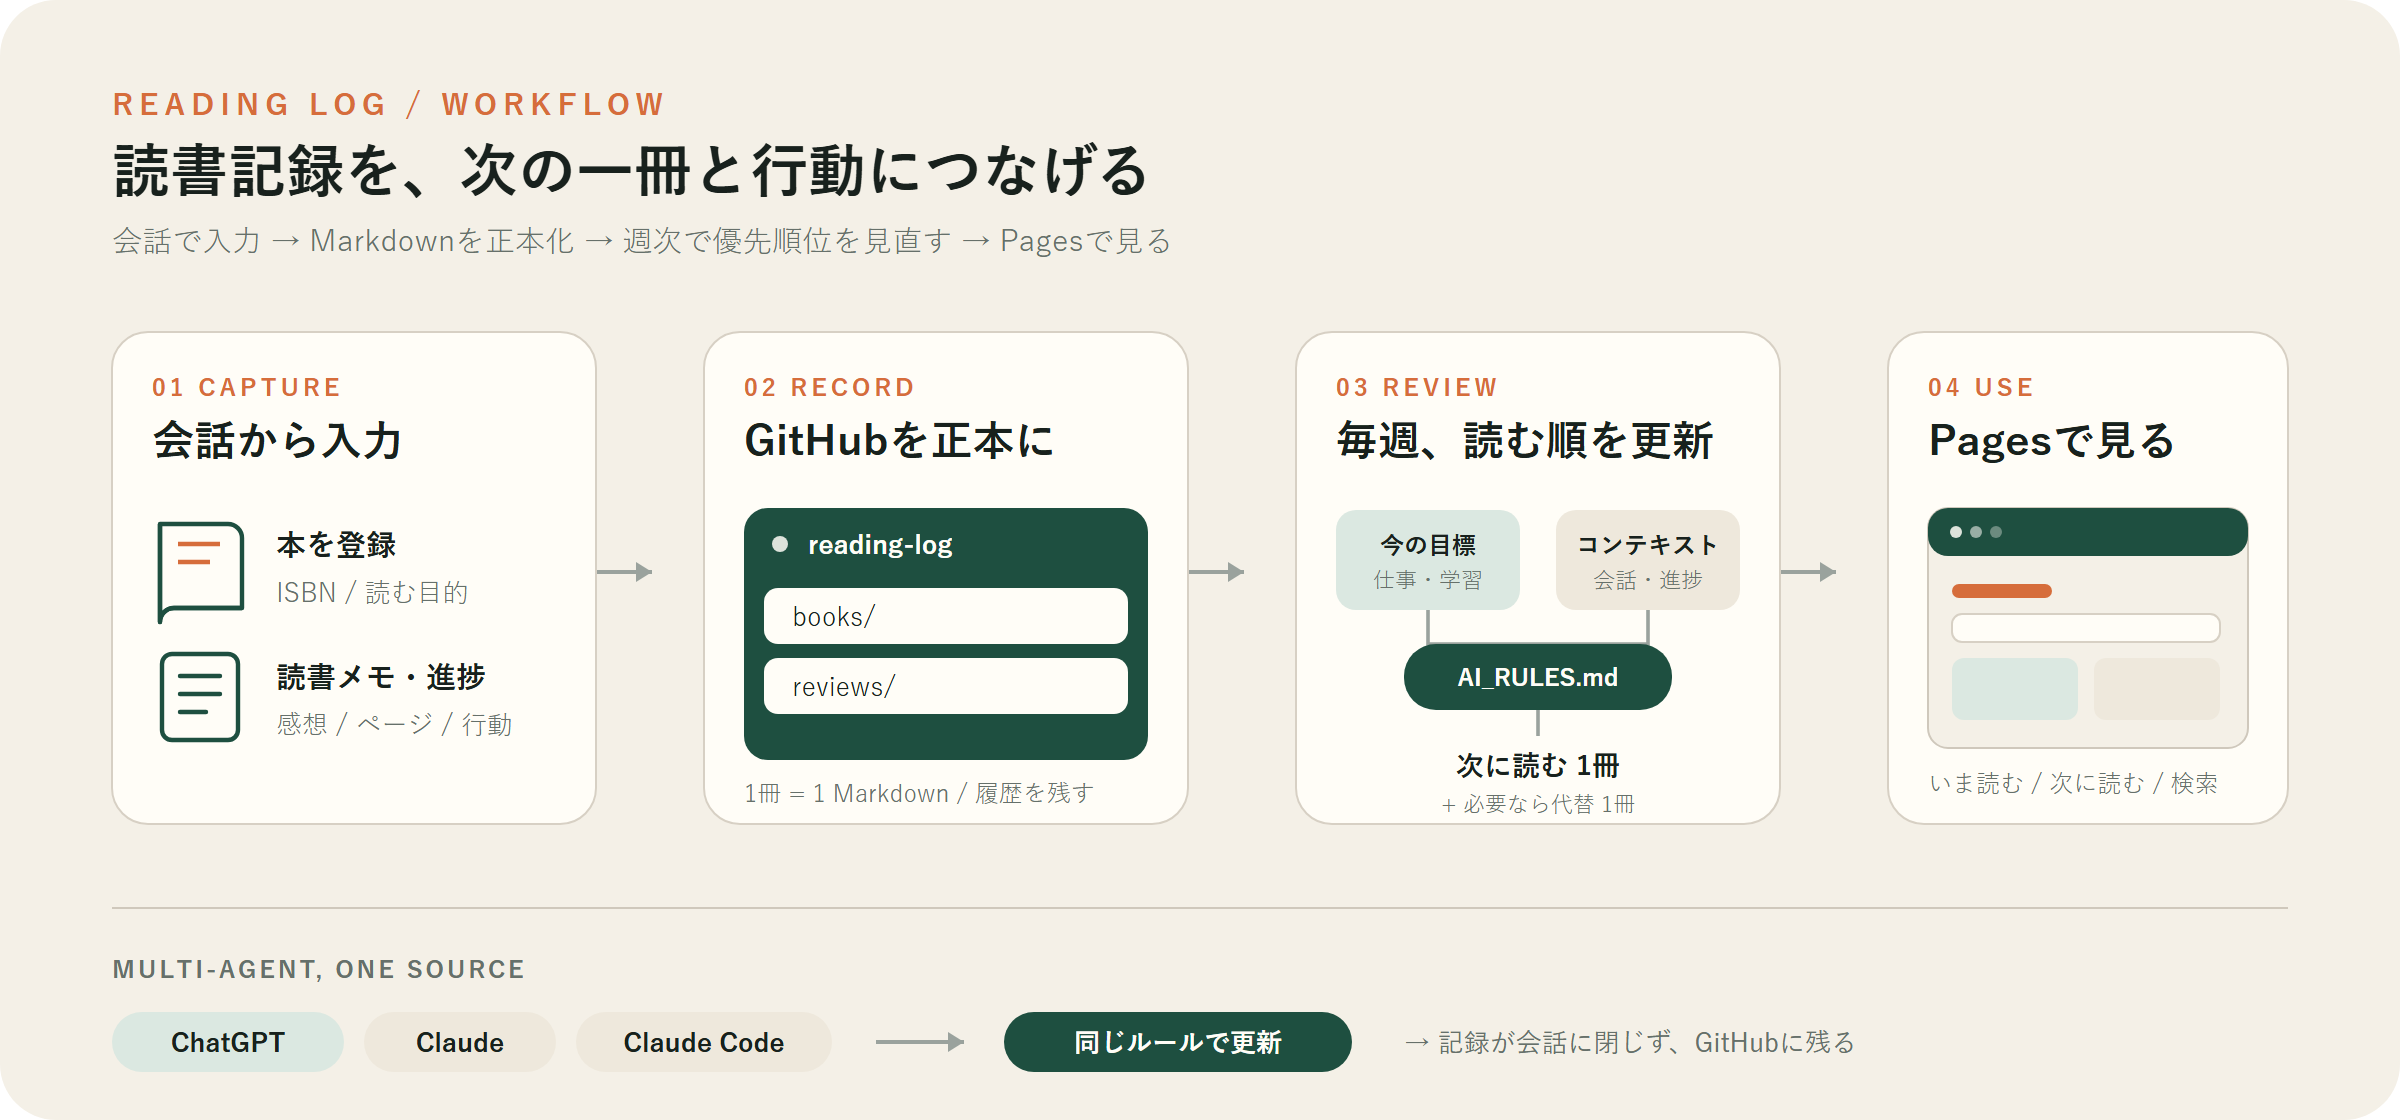
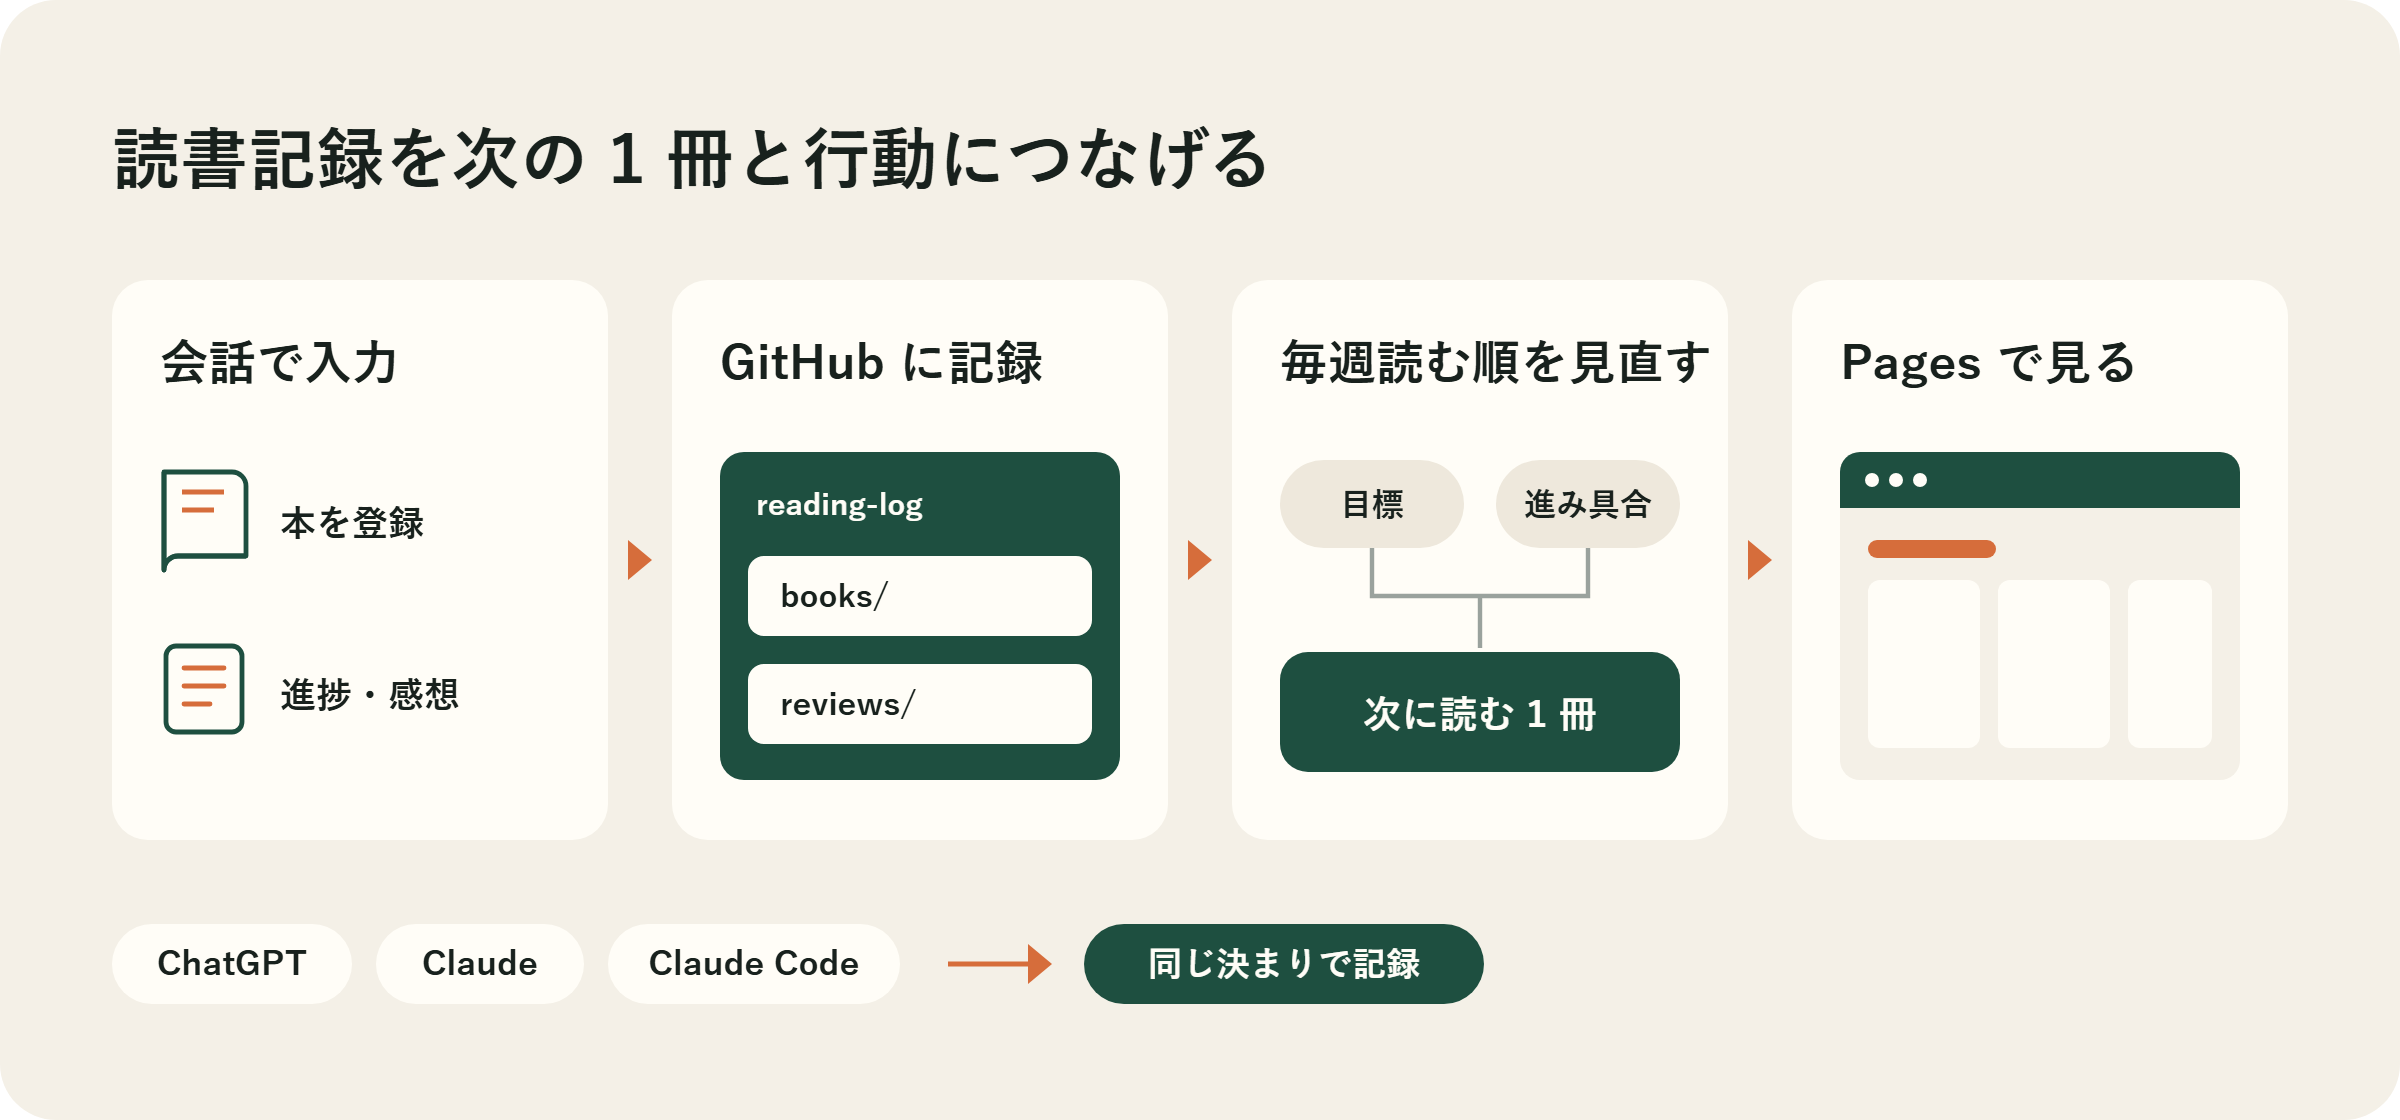
README を読みやすくし、ChatGPT の指示文と週次レビューの定期タスクの文を使えるようにした
- 読点と太字を減らした（yomiyasu の lint の指摘 3 件 → 0 件）
- 始め方の 4 から、ChatGPT のプロジェクトに貼る指示を開けるようにした。指示文はコピーのボタンが付く枠に入れた
- 「週次レビューを自動で回す」の節を足し、ChatGPT の定期タスクに登録する文を載せた
- 仕組みの図から英語の小見出し・補足の文・意味のない色分けを外し、PNG を作り直した

diff --git a/README.md b/README.md
@@ -2,20 +2,20 @@
 
 A template for a reading log that you update by talking to ChatGPT. Each book is one Markdown file in your GitHub repository, GitHub Pages shows your bookshelf, and the AI picks your next book every week based on your goals. Click "Use this template" to start. The documentation below is in Japanese.
 
-ChatGPT に話しかけるだけで更新できる読書記録のひな形です。本は 1 冊 1 ファイルで GitHub に残り、GitHub Pages で本棚として見られ、毎週 AI が「次に読む 1 冊」を選びます。
+ChatGPT に話しかけるだけで更新できる読書記録のひな形です。本は 1 冊 1 ファイルで GitHub に残り、GitHub Pages で本棚として見られます。毎週 AI が「次に読む 1 冊」を選びます。
 
 ![仕組みの図：会話で入力し、GitHub に記録し、毎週読む順を見直し、Pages で見る](assets/images/reading-log-overview.svg)
 
-**実例：[作者の本棚](https://n-yoshida-dev.github.io/reading-log/)**（このひな形の元になった読書記録）
+実例：[作者の本棚](https://n-yoshida-dev.github.io/reading-log/)（このひな形の元になった読書記録）
 
 ## なぜ作ったか
 
-読書記録を「残す」だけで終わらせず、**次に読む本と、読後にやることまでつなげる**ためです。記録が ChatGPT の会話の中に閉じると、あとから探せず、ほかの AI からも使えません。そこで GitHub を正本にし、どの AI も同じ決まり（`AI_RULES.md`）で読み書きするようにしました。
+読書記録を残すだけで終わらせず、次に読む本と読後にやることまでつなげるためです。記録が ChatGPT の会話の中にしかないと、あとから探せず、ほかの AI からも使えません。そこで記録の置き場を GitHub にし、どの AI も同じ決まり（`AI_RULES.md`）で読み書きするようにしました。
 
 ## どんな人に向くか
 
 - 本を買っても積んでしまい、どれから読むか迷う人
-- 読んだ感想を書くのが面倒で、記録が続かない人
+- 読んだ感想を書くのが面倒で記録が続かない人
 - ChatGPT と GitHub のアカウントを持っている人（ChatGPT から GitHub に書き込める設定が要る）
 
 ## できること
@@ -23,26 +23,40 @@ ChatGPT に話しかけるだけで更新できる読書記録のひな形です
 | 機能 | 中身 |
 | --- | --- |
 | 話して記録 | 「今 85 ページ。ここが刺さった」と ChatGPT に話すと、その本のファイルに日付つきで追記される |
-| 写真で登録 | 表紙と裏表紙のバーコードの写真から、タイトル・著者・ISBN を登録する |
-| 次の 1 冊 | 毎週、あなたの目標・進み具合・残っている行動から、次に読む 1 冊を選び、100 点満点の参考点を付ける |
+| 写真で登録 | 表紙と裏表紙のバーコードの写真からタイトル・著者・ISBN を登録する |
+| 次の 1 冊 | 毎週あなたの目標・進み具合・残っている行動から次に読む 1 冊を選び、100 点満点の参考点を付ける |
 | 本棚の画面 | 「読書中」「次に読む」「すべての本」。検索・カテゴリの絞り込み・並べ替え |
 | 記録フォーム | 画面の「記録する」で項目を埋めると、ChatGPT に貼る文章ができる（話すのが難しい場面用） |
 | ほかの AI | Claude Code は `CLAUDE.md`、Codex などは `AGENTS.md` から同じ決まりを読む |
 
 ## 始め方（15 分ほど）
 
-1. このページ右上の **Use this template → Create a new repository** で、自分のリポジトリを作る。公開範囲は **Public**（GitHub Pages を無料で使うため。記録は誰でも読めるようになる）
-2. 作ったリポジトリの **Settings → Pages** で、Source を **Deploy from a branch**、Branch を **main / (root)** にして保存する。数分で `https://<ユーザー名>.github.io/<リポジトリ名>/` に空の本棚が出る
-3. `_data/categories.yml` のカテゴリを、自分の読む本に合わせて書き換える（GitHub の画面の鉛筆マークで直せる）
-4. ChatGPT で読書記録用の**プロジェクト**を作り、`CHATGPT_PROJECT_INSTRUCTIONS.md` の「---」から後ろを、プロジェクトの指示に貼る。`<GitHubユーザー名>/<リポジトリ名>` と「私の今の目標」を自分の物に書き換える
-5. ChatGPT の **設定 → プラグイン** で **GitHub** を入れ、GitHub 側の許可の画面で、このリポジトリへのアクセスを許可する（2026-11 時点の画面の名前。ChatGPT の更新で変わることがある）
-6. プロジェクトの中で、表紙とバーコードの写真を添えて「この本を登録して。設計を学びたくて買った」と話す。本のファイルができ、数分後に本棚に出れば完了
+1. このページ右上の「Use this template」→「Create a new repository」で自分のリポジトリを作る。公開範囲は「Public」にする。GitHub Pages を無料で使うためで、記録は誰でも読めるようになる
+2. 作ったリポジトリの「Settings」→「Pages」で Source を「Deploy from a branch」、Branch を「main」と「/ (root)」にして保存する。数分で `https://<ユーザー名>.github.io/<リポジトリ名>/` に空の本棚が出る
+3. `_data/categories.yml` のカテゴリを自分の読む本に合わせて書き換える。GitHub の画面の鉛筆マークで直せる
+4. ChatGPT で読書記録用のプロジェクトを作る。[ChatGPT のプロジェクトに貼る指示](CHATGPT_PROJECT_INSTRUCTIONS.md)を開き、枠の中の文をコピーしてプロジェクトの指示に貼る。`<GitHubユーザー名>/<リポジトリ名>` と「私の今の目標」は自分の物に書き換える
+5. ChatGPT の「設定」→「プラグイン」で「GitHub」を入れ、GitHub 側の許可の画面でこのリポジトリへのアクセスを許可する。画面の名前は 2026-11 時点のもので、ChatGPT の更新で変わることがある
+6. プロジェクトの中で表紙とバーコードの写真を添えて「この本を登録して。設計を学びたくて買った」と話す。本のファイルができ、数分後に本棚に出れば完了
+
+## 週次レビューを自動で回す
+
+ChatGPT の定期タスク（決めた曜日と時刻に ChatGPT が自動で動く機能）に、次の文を登録します。プロジェクトの中の会話でこの文を送ると、毎週のタスクとして登録できます。曜日と時刻とリポジトリ名は自分の物に書き換えてください。
+
+```text
+毎週日曜の朝 8 時に、読書記録の週次レビューをして。
+リポジトリ <GitHubユーザー名>/<リポジトリ名> の AI_RULES.md を全文読み、8・9・12 に従う。
+books/ と inbox/ と reviews/latest.md を読み、templates/weekly-review.md の形で reviews/YYYY-Www.md に今週のレビューを作り、reviews/latest.md を同じ中身にする。
+各本の優先度の点数と reading_order を直し、GitHub に反映する。
+終わったら、次に読む 1 冊と変えたファイルを短く教えて。
+```
+
+定期タスクを使わないときは、週に 1 回「今週の読書レビューをして」と頼めば同じことができます。
 
 ## 毎日の使い方（作者の運用）
 
-- 本を読んだら、スマホの ChatGPT アプリでプロジェクトを開き、**音声で**話す。「今ここまで読んで、こう思った」「ここは仕事で試したい」くらいの話し言葉で十分。ChatGPT が整えて、その本のファイルに書く
-- 週次レビューは、ChatGPT の定期タスクで毎週自動で回している（定期タスクを使わないなら、週に 1 回「今週の読書レビューをして」と頼めばよい）。`reviews/` にレビューができ、次に読む 1 冊が本棚の「次に読む」の先頭に来る
-- 何冊もまとめて登録する・ファイルの形を変えるときは、パソコンの Claude Code で開いて頼む
+- 本を読んだらスマホの ChatGPT アプリでプロジェクトを開き、音声で話す。「今ここまで読んで、こう思った」「ここは仕事で試したい」くらいの話し言葉で十分。ChatGPT が整えて、その本のファイルに書く
+- 週次レビューは上の定期タスクで毎週自動で回している。`reviews/` にレビューができ、次に読む 1 冊が本棚の「次に読む」の先頭に来る
+- 何冊もまとめて登録するときやファイルの形を変えるときは、パソコンの Claude Code で開いて頼む
 
 ## ファイルの構成
 
@@ -59,10 +73,10 @@ CLAUDE.md / AGENTS.md            Claude Code・Codex などの入口
 
 ## 気をつけること
 
-- **リポジトリと本棚は誰でも読めます。** 家族・勤務先・お金・健康の話は記録に書かないでください。目標など人に見せたくない事は、ChatGPT のプロジェクトの指示（非公開）に書きます。`AI_RULES.md` の 10 で、AI にも同じことを守らせています
+- **リポジトリと本棚は誰でも読めます。** 家族・勤務先・お金・健康の話は記録に書かないでください。目標など人に見せたくないことは、ChatGPT のプロジェクトの指示（非公開）に書きます。`AI_RULES.md` の 10 で AI にも同じことを守らせています
 - 本の文章の長い引用と、市販の本の表紙の写真は保存しません（著作権のため）
 - このひな形はプログラムを実行しません。動くのは GitHub Pages のサイトと、あなたが使う AI だけです
 
 ## License
 
-MIT（`LICENSE`）。あなたが書いた読書記録は、あなたの物です。
+MIT（`LICENSE`）。あなたが書いた読書記録はあなたの物です。

diff --git a/CHATGPT_PROJECT_INSTRUCTIONS.md b/CHATGPT_PROJECT_INSTRUCTIONS.md
@@ -1,9 +1,8 @@
 # ChatGPTプロジェクト用の指示
 
-ChatGPT で読書記録用のプロジェクトを作り、この下の「---」から後ろを、プロジェクトの指示に貼り付ける。`<GitHubユーザー名>/<リポジトリ名>` は自分のリポジトリに、「私の今の目標」は自分の言葉に書き換える。目標はここ（非公開のプロジェクトの指示）に書き、公開されるリポジトリには書かない。
+ChatGPT で読書記録用のプロジェクトを作り、下の枠の中の文をプロジェクトの指示に貼り付ける。枠の右上のボタンでコピーできる。`<GitHubユーザー名>/<リポジトリ名>` は自分のリポジトリに、「私の今の目標」は自分の言葉に書き換える。目標はここ（非公開のプロジェクトの指示）に書き、公開されるリポジトリには書かない。
 
----
-
+```markdown
 ## 私の今の目標
 
 - （例）3か月で、仕事で使う設計の考え方を身につける
@@ -50,3 +49,4 @@ ChatGPT で読書記録用のプロジェクトを作り、この下の「---」
 
 - 非公開の個人的な計画・意向・活動状況は、会話や非公開資料から取得できても公開ファイルへ書かない。言い換えから私的な事情を推測できる場合も省略する。読書の選定理由には、学習への適用、進捗、使える時間など必要最小限の根拠だけを残す。
 - 非公開資料のリポジトリ名・パス・リンク・引用を公開ファイル、コミット文、変更報告へ載せない。判断材料としての参照と公開する内容を分け、公開前に全文を確認する。
+```
